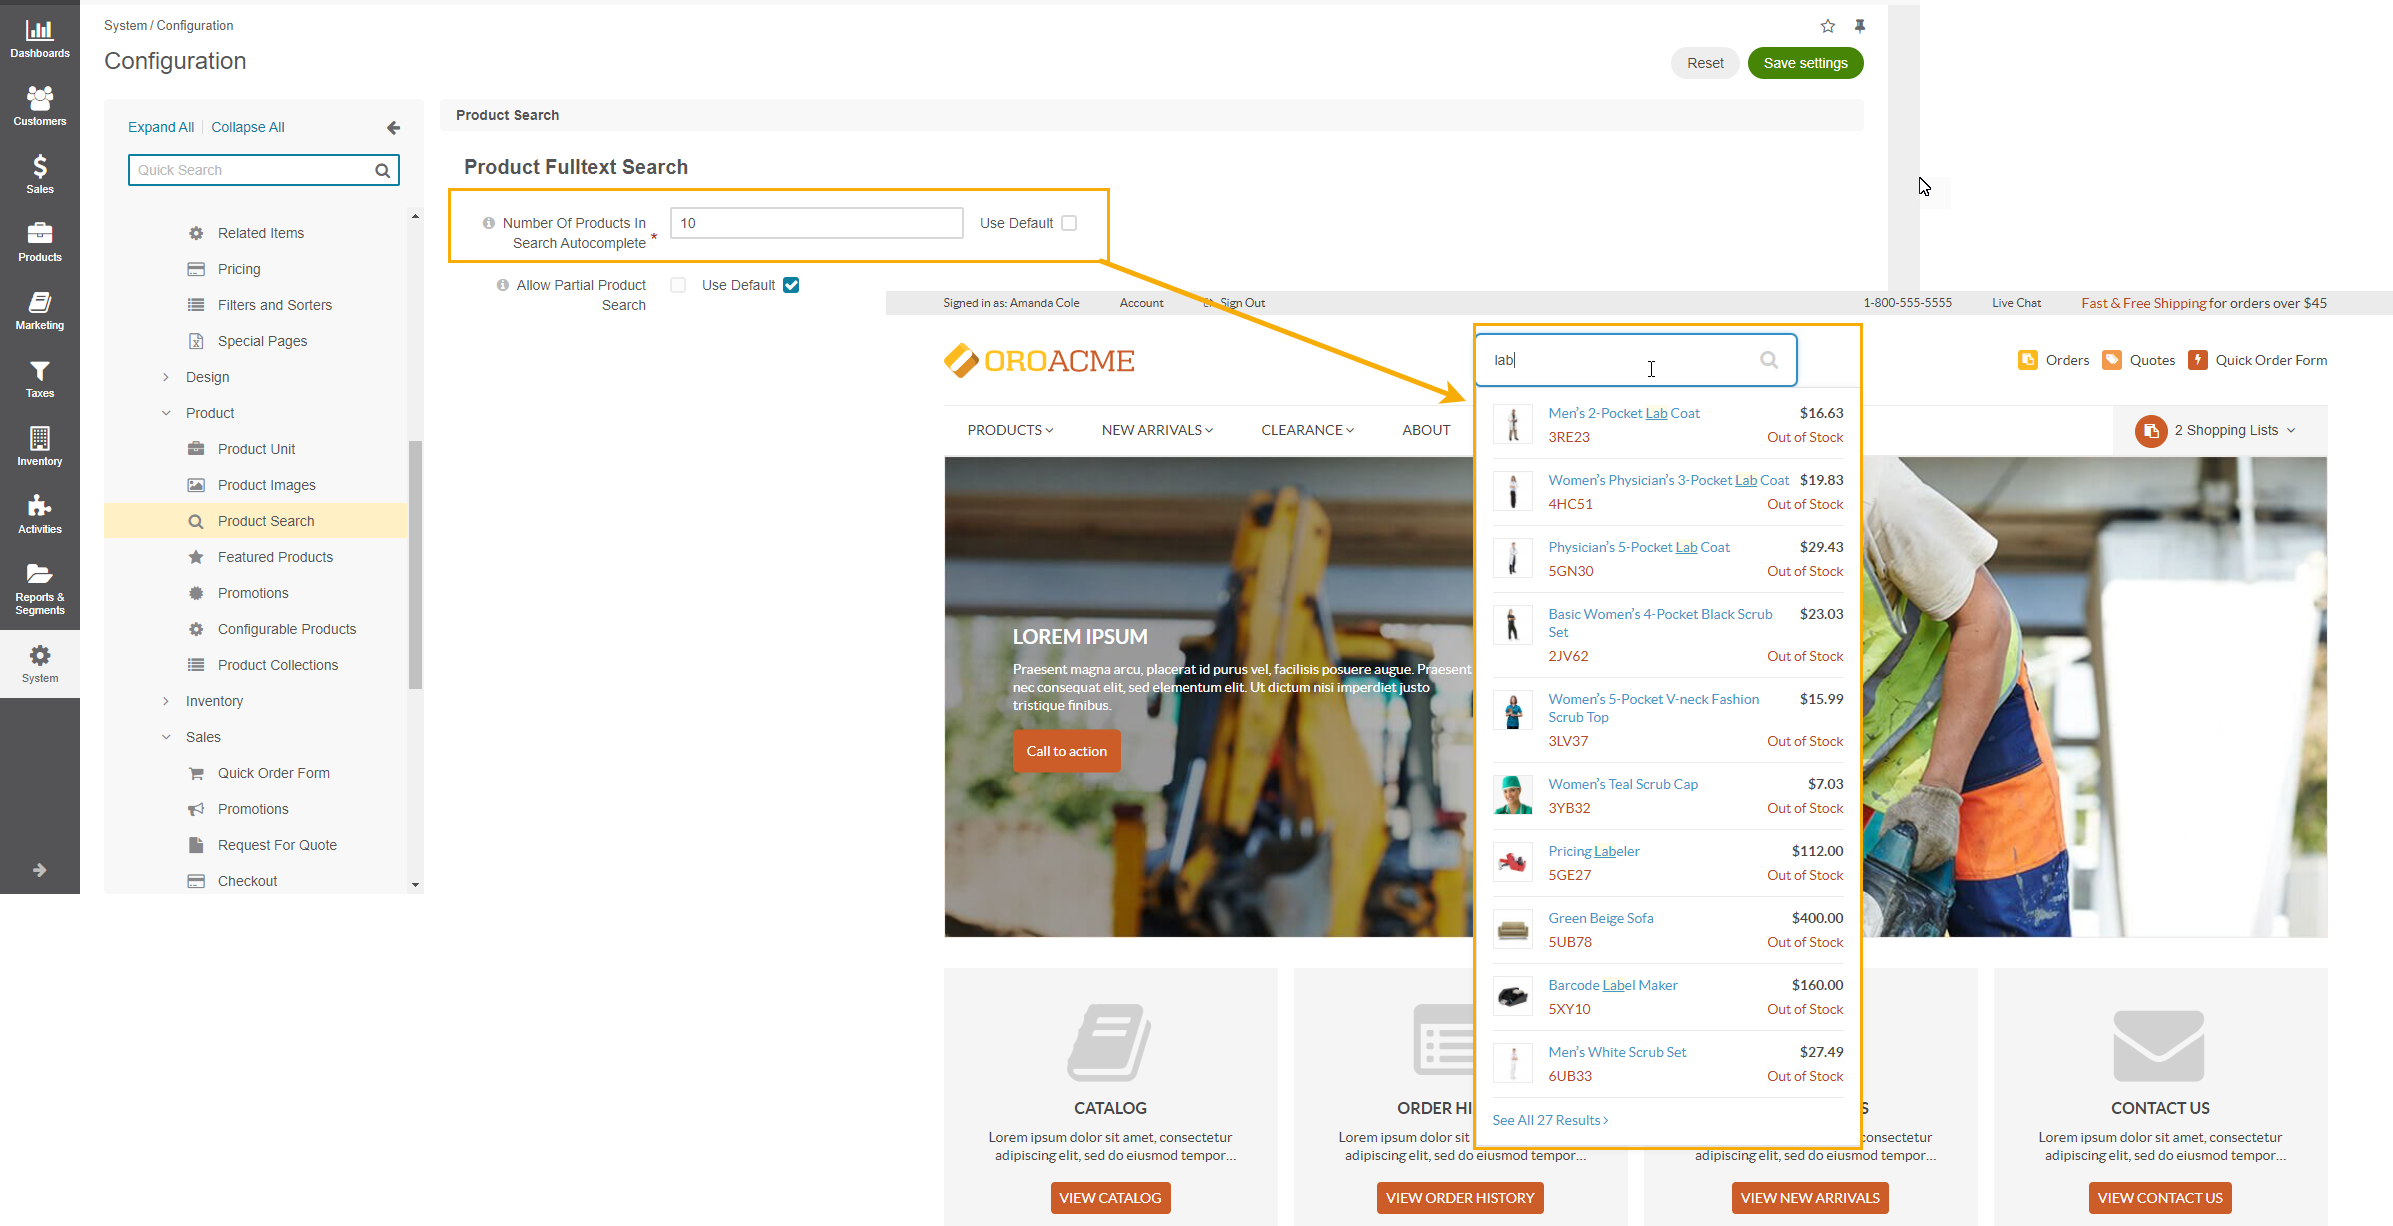
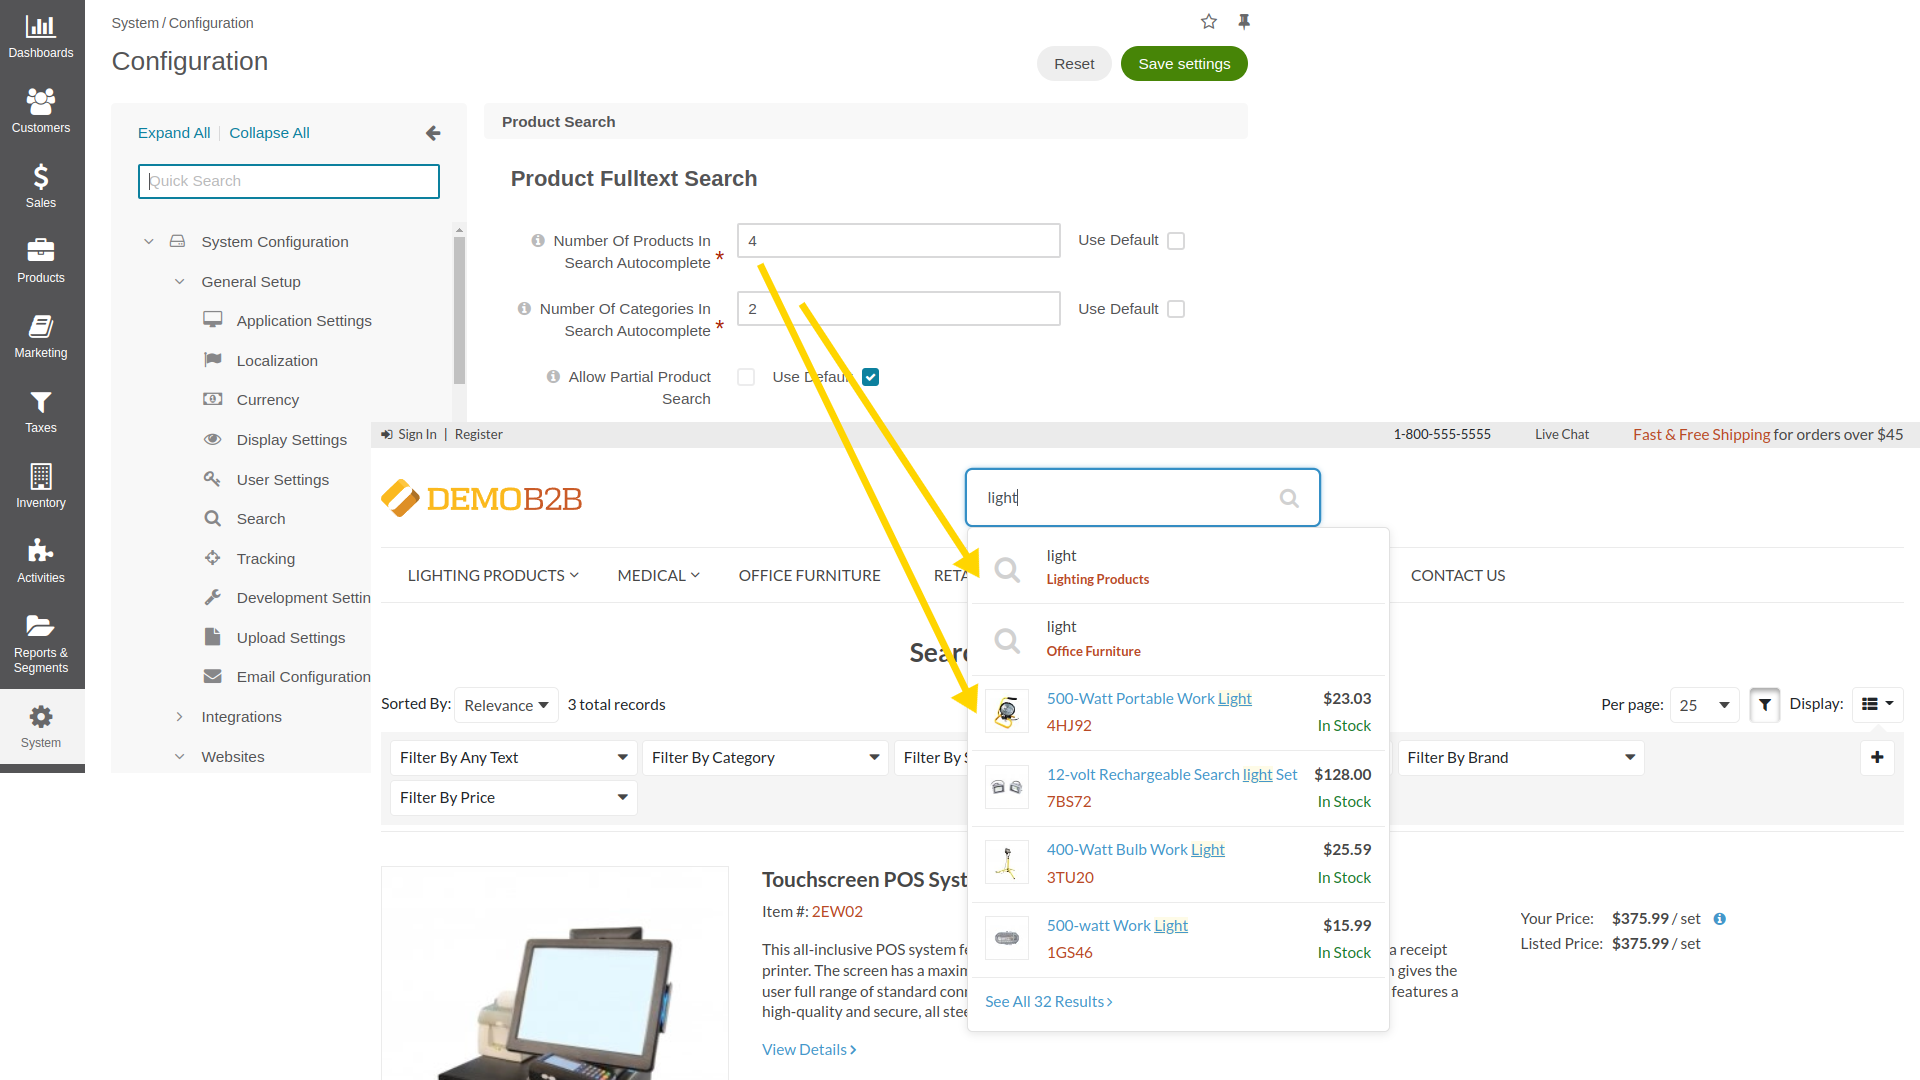
BB-22014: Port Search in Category extension to core (#34452)
- started porting feature to the product
 - added data to the search index
 - changed autocomplete data format and event
 - removed request from the autocomplete provider
 - added aggregation parameters to Query classes
 - added support of agregation parameter to ES
 - added data sanitizing
 - added visual representation
 - added aggregation parameter support
 - added system configuration
 - added category title
 - added information to changelog
 - moved category related logic to CatalogBundle
 - updated documentation
 - fixed autocomplete data

diff --git a/user/back-office/system/configuration/commerce/product/global-product-search.rst b/user/back-office/system/configuration/commerce/product/global-product-search.rst
@@ -25,8 +25,10 @@ To configure the product search settings globally:
 
    * **Number of Products in Search Autocomplete** --- Maximum number of products shown in the storefront autocomplete dropdown.
 
+   * **Number of Categories in Search Autocomplete** --- Maximum number of categories shown in the storefront autocomplete dropdown.
+
      .. image:: /user/img/system/config_commerce/product/search-autocomplete.png
-        :alt: Illustration of 10 products in the autocomplete search field
+        :alt: Illustration of 4 products and 2 categories in the autocomplete search field
 
    * **Allow Partial Product Search** --- When enabled, the customer can find a product in the global search and on quick order form using a substring inside a word. Enabling this option may have a performance impact on search behaviour.
 

diff --git a/user/back-office/system/user-management/organizations/org-configuration/commerce/product/organization-product-search.rst b/user/back-office/system/user-management/organizations/org-configuration/commerce/product/organization-product-search.rst
@@ -25,6 +25,7 @@ To configure the product search settings per organization:
 5. In the **Product Fulltext Search** section, configure the following options:
 
    * **Number of Products in Search Autocomplete** --- Maximum number of products shown in the storefront autocomplete dropdown.
+   * **Number of Categories in Search Autocomplete** --- Maximum number of categories shown in the storefront autocomplete dropdown.
    * **Allow Partial Product Search** --- When enabled, the customer can find a product in the global search and on quick order form using a substring inside a word. Enabling this option may have a performance impact on search behaviour.
 
 6. Click **Save Settings**.

diff --git a/user/back-office/system/websites/web-configuration/commerce/product/website-product-search.rst b/user/back-office/system/websites/web-configuration/commerce/product/website-product-search.rst
@@ -24,6 +24,7 @@ To configure the product search settings per website:
 5. In the **Product Fulltext Search** section, configure the following options:
 
    * **Number of Products in Search Autocomplete** --- Maximum number of products shown in the storefront autocomplete dropdown.
+   * **Number of Categories in Search Autocomplete** --- Maximum number of categories shown in the storefront autocomplete dropdown.
    * **Allow Partial Product Search** --- When enabled, the customer can find a product in the global search and on quick order form using a substring inside a word. Enabling this option may have a performance impact on search behaviour.
 
 6. Click **Save Settings**.
